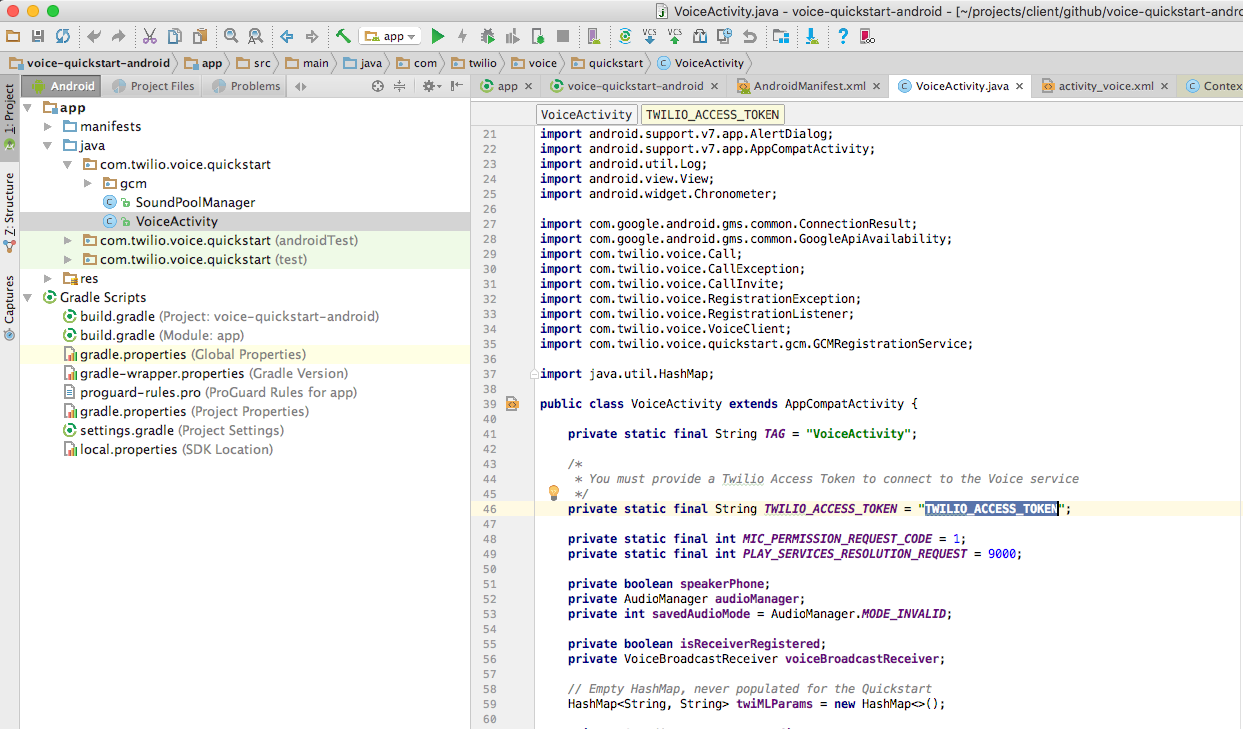
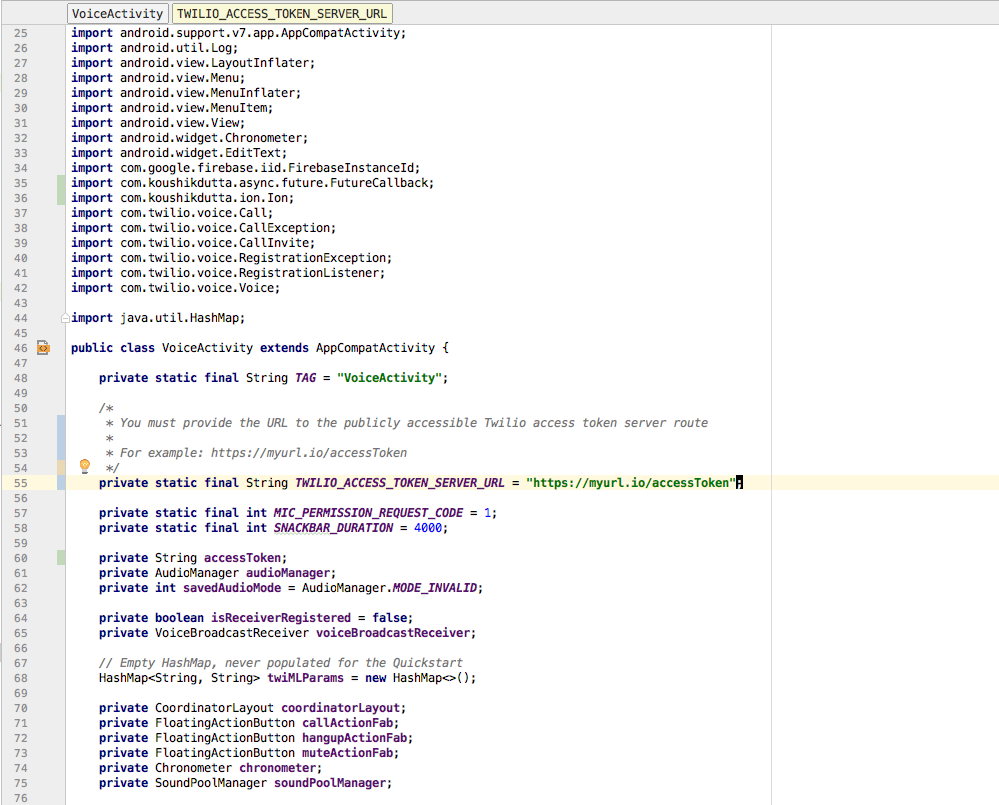
Use access token url

Changed region(s): [[0.0, 0.0, 1.0, 1.0]]

diff --git a/app/src/main/java/com/twilio/voice/quickstart/VoiceActivity.java b/app/src/main/java/com/twilio/voice/quickstart/VoiceActivity.java
@@ -32,6 +32,8 @@ import android.view.View;
 import android.widget.Chronometer;
 import android.widget.EditText;
 import com.google.firebase.iid.FirebaseInstanceId;
+import com.koushikdutta.async.future.FutureCallback;
+import com.koushikdutta.ion.Ion;
 import com.twilio.voice.Call;
 import com.twilio.voice.CallException;
 import com.twilio.voice.CallInvite;
@@ -46,13 +48,16 @@ public class VoiceActivity extends AppCompatActivity {
     private static final String TAG = "VoiceActivity";
 
     /*
-    * You must provide a Twilio Access Token to connect to the Voice service
-    */
-    private static final String TWILIO_ACCESS_TOKEN = "TWILIO_ACCESS_TOKEN";
+     * You must provide the URL to the publicly accessible Twilio access token server route
+     *
+     * For example: https://myurl.io/accessToken
+     */
+    private static final String TWILIO_ACCESS_TOKEN_SERVER_URL = "TWILIO_ACCESS_TOKEN_SERVER_URL";
 
     private static final int MIC_PERMISSION_REQUEST_CODE = 1;
     private static final int SNACKBAR_DURATION = 4000;
 
+    private String accessToken;
     private AudioManager audioManager;
     private int savedAudioMode = AudioManager.MODE_INVALID;
 
@@ -134,7 +139,7 @@ public class VoiceActivity extends AppCompatActivity {
         if (!checkPermissionForMicrophone()) {
             requestPermissionForMicrophone();
         } else {
-            registerForCallInvites();
+            retrieveAccessToken();
         }
     }
 
@@ -254,7 +259,7 @@ public class VoiceActivity extends AppCompatActivity {
                     }
                 }
             } else if (intent.getAction().equals(ACTION_FCM_TOKEN)) {
-                registerForCallInvites();
+                retrieveAccessToken();
             }
         }
     }
@@ -311,7 +316,7 @@ public class VoiceActivity extends AppCompatActivity {
                 // Place a call
                 EditText contact = (EditText) ((AlertDialog) dialog).findViewById(R.id.contact);
                 twiMLParams.put("to", contact.getText().toString());
-                activeCall = Voice.call(VoiceActivity.this, TWILIO_ACCESS_TOKEN, twiMLParams, callListener);
+                activeCall = Voice.call(VoiceActivity.this, accessToken, twiMLParams, callListener);
                 setCallUI();
                 alertDialog.dismiss();
             }
@@ -361,7 +366,7 @@ public class VoiceActivity extends AppCompatActivity {
         final String fcmToken = FirebaseInstanceId.getInstance().getToken();
         if (fcmToken != null) {
             Log.i(TAG, "Registering with FCM");
-            Voice.register(this, TWILIO_ACCESS_TOKEN, Voice.RegistrationChannel.FCM, fcmToken, registrationListener);
+            Voice.register(this, accessToken, Voice.RegistrationChannel.FCM, fcmToken, registrationListener);
         }
     }
 
@@ -491,7 +496,7 @@ public class VoiceActivity extends AppCompatActivity {
                         "Microphone permissions needed. Please allow in your application settings.",
                         SNACKBAR_DURATION).show();
             } else {
-                registerForCallInvites();
+                retrieveAccessToken();
             }
         }
     }
@@ -538,5 +543,25 @@ public class VoiceActivity extends AppCompatActivity {
 
         return alertDialogBuilder.create();
 
+    }
+
+    /*
+     * Get an access token from your Twilio access token server
+     */
+    private void retrieveAccessToken() {
+        Ion.with(this).load(TWILIO_ACCESS_TOKEN_SERVER_URL).asString().setCallback(new FutureCallback<String>() {
+            @Override
+            public void onCompleted(Exception e, String accessToken) {
+                if (e == null) {
+                    Log.d(TAG, "Access token: " + accessToken);
+                    VoiceActivity.this.accessToken = accessToken;
+                    registerForCallInvites();
+                } else {
+                    Snackbar.make(coordinatorLayout,
+                            "Error retrieving access token. Unable to make calls",
+                            Snackbar.LENGTH_LONG).show();
+                }
+            }
+        });
     }
 }

diff --git a/README.md b/README.md
@@ -43,9 +43,10 @@ Save the generated `API_KEY` and `API_KEY_SECRET` in your notepad. You will need
 
 Download one of the starter projects for the server.
 
-* [voice-quickstart-server-python](https://github.com/twilio/voice-quickstart-server-python)
-* [voice-quickstart-server-node](https://github.com/twilio/voice-quickstart-server-node)
 * [voice-quickstart-server-java](https://github.com/twilio/voice-quickstart-server-java)
+* [voice-quickstart-server-node](https://github.com/twilio/voice-quickstart-server-node)
+* [voice-quickstart-server-php](https://github.com/twilio/voice-quickstart-server-php)
+* [voice-quickstart-server-python](https://github.com/twilio/voice-quickstart-server-python)
 
 Follow the instructions in the server's README to get the application server up and running locally and accessible via the public Internet. For now just add the Twilio Account SID that you can obtain from the console, and  the `API_KEY` and `API_SECRET` you obtained in the previous step. 
 
@@ -76,14 +77,13 @@ Put the remaining `APP_SID` configuration info into your application server by o
 
 Once you’ve done that, restart the server so it uses the new configuration info. Now it's time to test.
 
-Open up a browser and visit the URL for your application server's Access Token endpoint: `https://{YOUR-SERVER}/accessToken`. If everything is configured correctly, you should see a long string of letters and numbers, which is a Twilio Access Token. Your Android app will use a token like this to connect to Twilio.
+Open up a browser and visit the URL for your application server's Access Token endpoint: `https://{YOUR_SERVER_URL}/accessToken`. If everything is configured correctly, you should see a long string of letters and numbers, which is a Twilio Access Token. Your Android app will use a token like this to connect to Twilio.
 
 ### <a name="bullet6"></a>6. Run the app
 
-Paste the Access Token into the VoiceActivity.java. 
+Paste the public URL of your application server’s `https://{YOUR_SERVER_URL}/accessToken` endpoint into `TWILIO_ACCESS_TOKEN_SERVER_URL` in VoiceActivity.java. Make sure to include `/accessToken` in the URL path.
 
-<img width="700px" src="images/quickstart/paste_token.png"/>
-
+<img width="600px" src="images/quickstart/paste_token.png"/>
 
 Run the quickstart app on an Android device
 
@@ -131,7 +131,7 @@ Put the `PUSH_CREDENTIAL_SID` configuration info into your application server by
     PUSH_CREDENTIAL_SID = 'CR***'
     APP_SID = 'AP***'
 
-Once you’ve done that, restart the server so it uses the new configuration info. Now it's time to test. Use your browser to initiate an incoming call by navigating to the "localhost:5000/placeCall" . This will trigger a Twilio REST API request that will make an inbound call to your mobile app. You will receive an incoming call notification.
+Once you’ve done that, restart the server so it uses the new configuration info. Now it's time to test. Use your browser to initiate an incoming call by navigating to the public URL of your application server’s `https://{YOUR_SERVER_URL}/placeCall` endpoint. This will trigger a Twilio REST API request that will make an inbound call to your mobile app. You will receive an incoming call notification.
 
 <img height="500px" src="images/quickstart/incoming_notification.png">"
 
